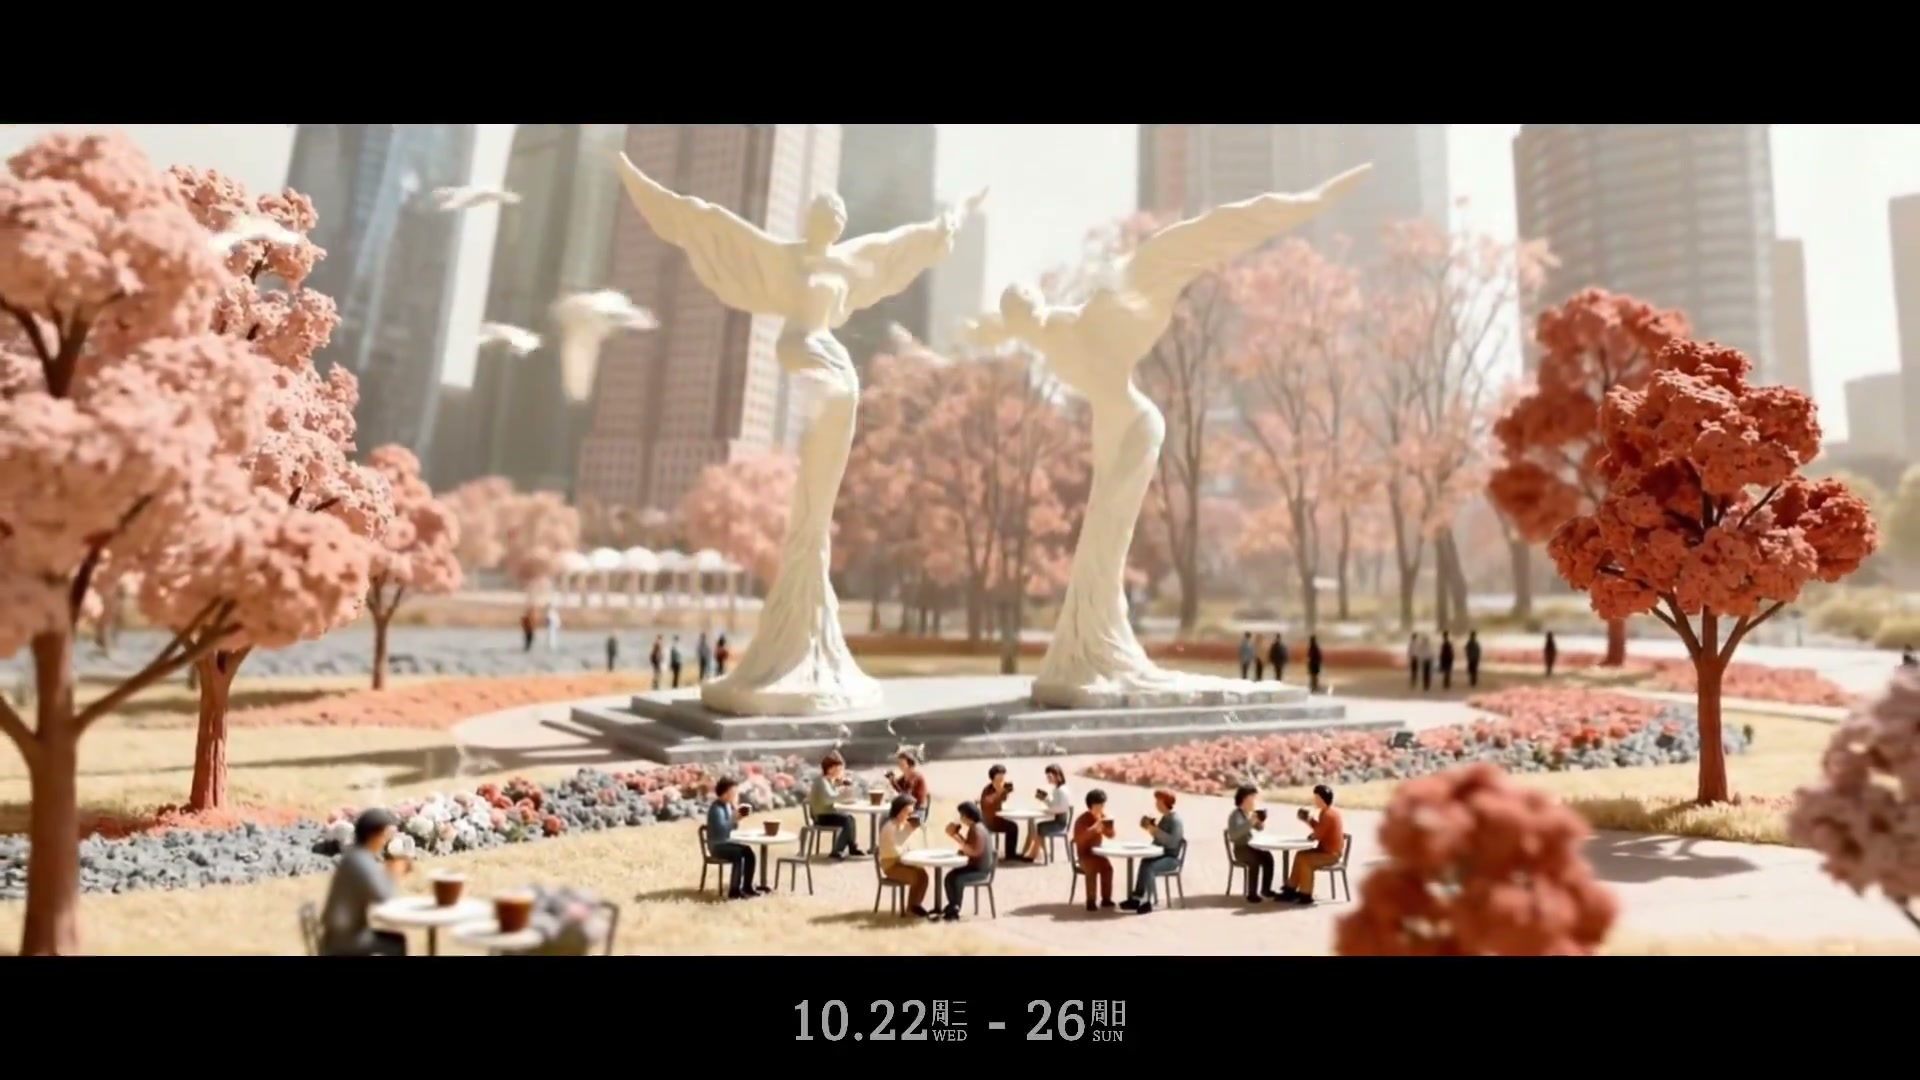
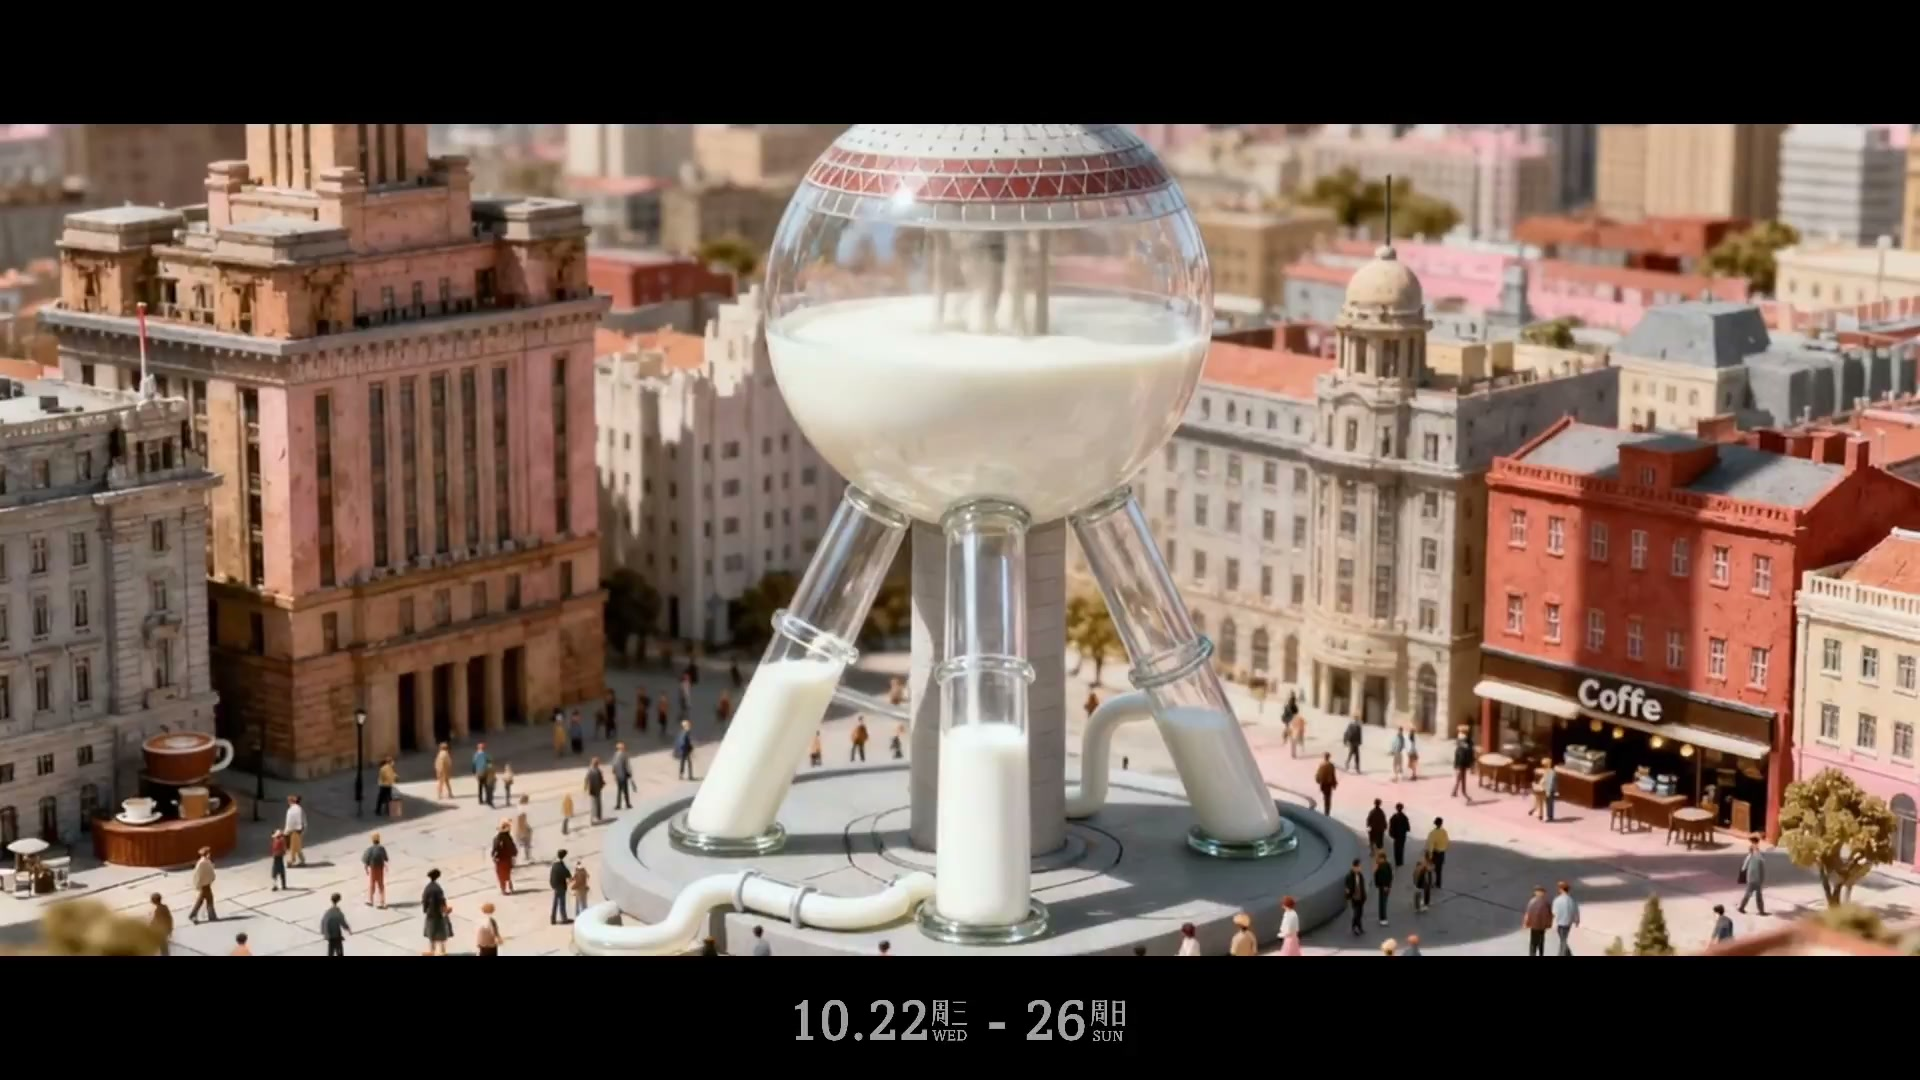
fix: re-extract frame_07 at 00:06.000 (user correction)

diff --git a/references/cases/LJZ-COFFEE.md b/references/cases/LJZ-COFFEE.md
@@ -428,7 +428,7 @@ scene_relations:
 | 4 | 镜头10 | 00:20.000 | 视觉高潮·拉花CG特效·奶白+咖啡棕 | assets/LJZ-COFFEE/frame_04_latteart.jpg |
 | 5 | 镜头11 | 00:23.000 | 唯一定格逆光·远景·暖橘+粉紫霞光·情感升华 | assets/LJZ-COFFEE/frame_05_sunset.jpg |
 | 6 | 镜头14 | 00:31.750 | 唯一转场·插画风格·品牌联结 | assets/LJZ-COFFEE/frame_06_transition.jpg |
-| 7 | 镜头3 | 00:04.500 | 城市地标融合·东方明珠×牛奶搅拌站·创意节奏起点 | assets/LJZ-COFFEE/frame_07_pearl.jpg |
+| 7 | 镜头3-4 | 00:06.000 | 城市地标融合·东方明珠×牛奶搅拌站·咖啡器具创意起点 | assets/LJZ-COFFEE/frame_07_pearl.jpg |
 | 8 | 镜头7 | 00:13.000 | 文化融合核心·咖啡豆斗拱×中国馆·全片最具辨识度画面 | assets/LJZ-COFFEE/frame_08_pavilion.jpg |
 | 9 | 镜头12 | 00:26.000 | 叙事终点·十周年蛋糕塔×广场·庆典主题锚点 | assets/LJZ-COFFEE/frame_09_cake.jpg |
 